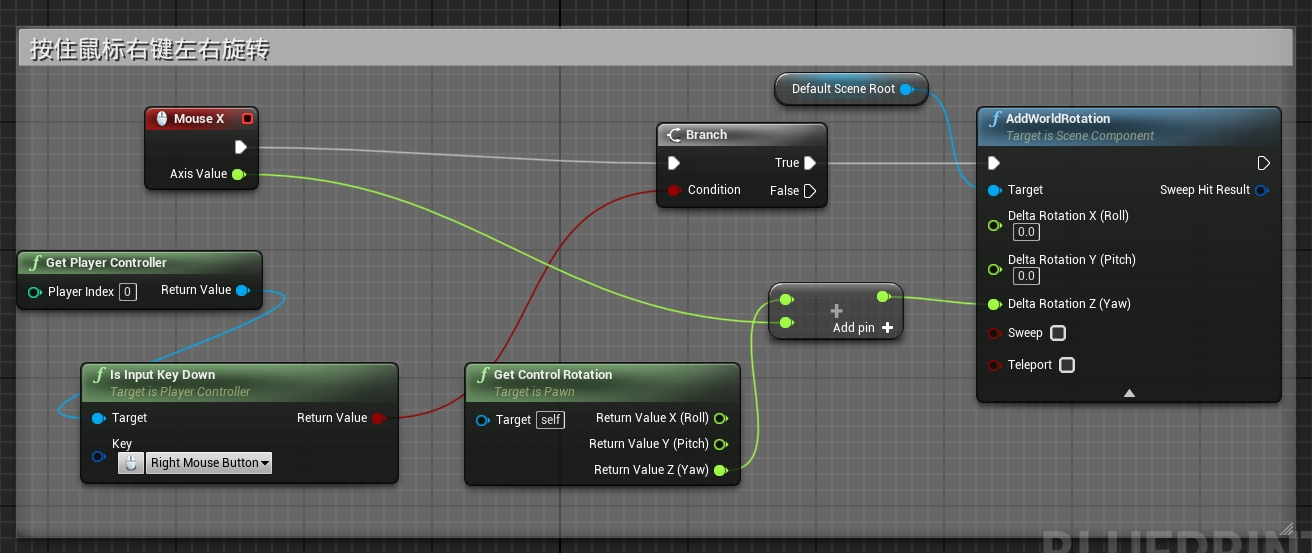
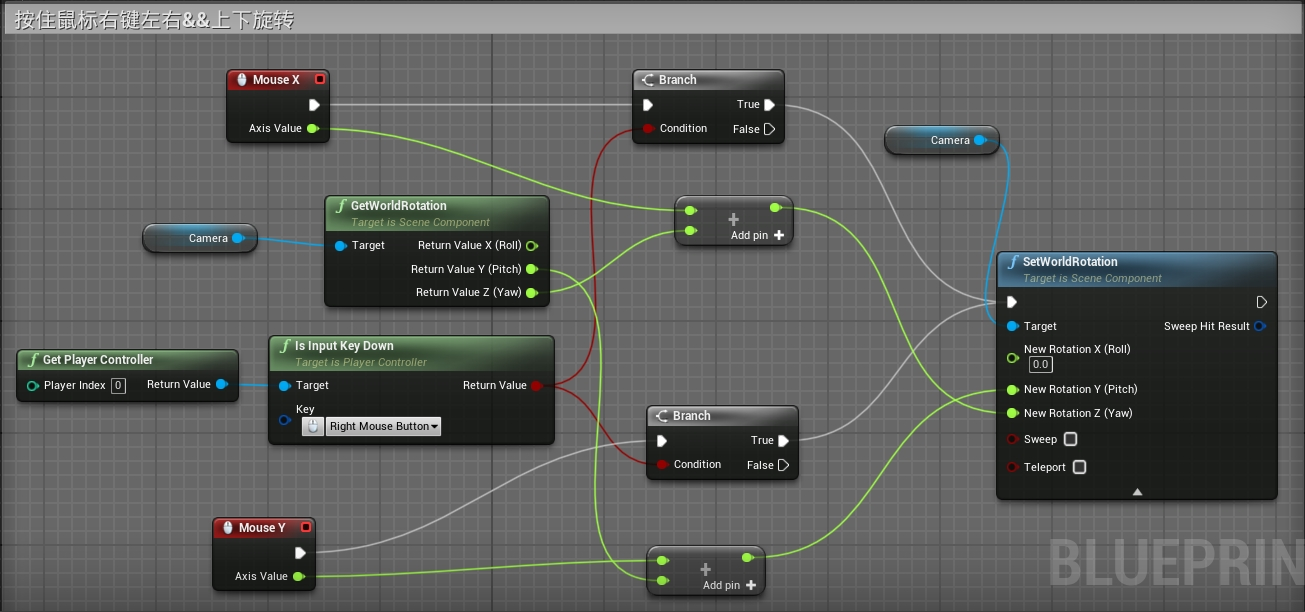
修改视角平移缩放

diff --git a/docs/ue/building-visualization/cameraMovement.md b/docs/ue/building-visualization/cameraMovement.md
@@ -44,8 +44,9 @@
 ![图片](./image/cameraMovement%20(7).png)
 
 ### 6. 实现按住右键旋转
+当角色（摄像机）左右旋转的时候，Z轴会发生变化，所以我们只需要设置Z轴的旋转值就可以了。同理，上下旋转的时候，只修改Y值就可以了
 ![图片](./image/cameraMovement%20(8).png)
-> 当角色（摄像机）左右旋转的时候，X轴会发生变化，所以我们只需要设置X轴的旋转值就可以了。同理，上下旋转的时候，只修改Y值就可以了（不做演示）。
+> 注意：这里需使用`SetWorldRotation`而不是`AddWorldRotation`，因为浮点数0.0不绝对为0，所以`AddWorldRotation`会使X轴不断变化。
 
 ### 7. 实现滑轮缩放画面
 添加弹簧臂，并设置相机旋转完成后有个滞后效果。
